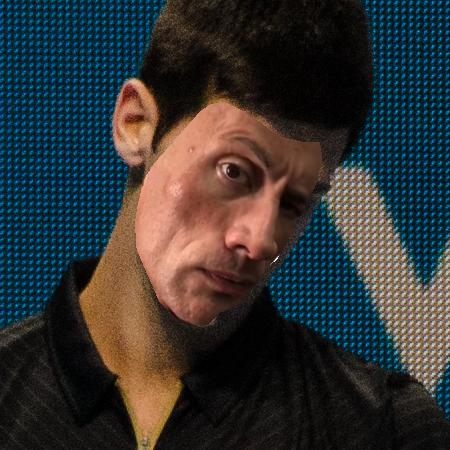
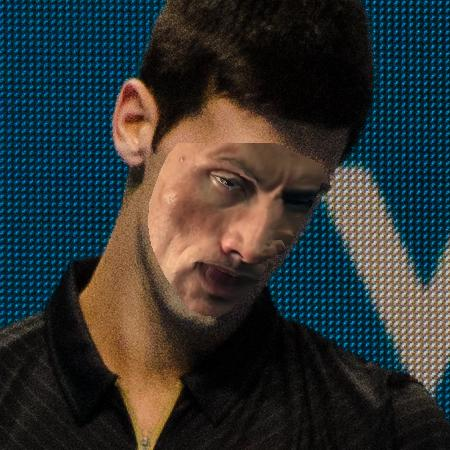
proj2: morph the Rock's face onto Djokovic with face landmarks
Replace the manual placement tool with a piecewise-affine warp between
matching landmarks, a face-outline mask, and color matching.

Changed region(s): [[0.28, 0.2178, 0.7156, 0.7467]]

diff --git a/docs/proj2/index.html b/docs/proj2/index.html
@@ -339,11 +339,12 @@ padded = <span class="tok-fn">np.pad</span>(image, ((pad_top, pad_bottom), (pad_
       </div>
 
       <h3>Djokovic gives the side-eye</h3>
-      <p class="intro">This is a photo of Djokovic checking his racket at the 2014 ATP Finals, blended with the famous meme of the Rock raising one eyebrow. The mask isn't a line. It's a shape I drew by hand around the Rock's face.</p>
-      <p class="intro">Lining them up was the tricky part. Djokovic is looking down at his racket and the Rock is looking up and to the side. My automatic attempts, which fit the faces using the eyes and mouth, either squashed the Rock's face or left it at the wrong angle. In the end I wrote a small browser tool where I could drag the Rock over Djokovic, rotate him (14.5°) and scale him (0.63×) until the eyes, nose, and mouth lined up, and then click out the mask around his face. The tool just saves those numbers and the mask points. The blending itself is the same Laplacian stack code as everything else.</p>
+      <p class="intro">This is a photo of Djokovic checking his racket at the 2014 ATP Finals, blended with the famous meme of the Rock raising one eyebrow. The mask isn't a line. It follows the outline of Djokovic's face.</p>
+      <p class="intro">Lining them up was the hard part. Djokovic is looking down at his racket, and the Rock is looking up and to the side, so no amount of rotating or scaling made the two faces match. There was always a strip of Djokovic's face left over, or the Rock's features landed in the wrong place. So I morphed the Rock's face instead. I found 478 matching points on both faces (eye corners, brows, nose, lips, jawline) with a face-landmark detector, split the face into triangles between those points, and warped each triangle of the Rock's face onto the matching triangle of Djokovic's. The Rock's features end up in the shape and angle of Djokovic's face.</p>
+      <p class="intro">The mask is Djokovic's face outline, shrunk slightly toward the center, with the top of the forehead cut off so the Rock's bald head doesn't paint over Djokovic's hair. The Rock's skin is also paler and lit differently, so before blending I shifted his colors to match the average and spread of Djokovic's skin inside the mask.</p>
       <div class="gallery three">
         <figure><img src="assets/rock_djokovic_image2.jpg" alt="Djokovic checking his racket" /><figcaption><b>Djokovic</b></figcaption></figure>
-        <figure><img src="assets/rock_djokovic_rock.jpg" alt="The Rock raising an eyebrow" /><figcaption><b>The Rock</b><span>Warped onto Djokovic's face before blending</span></figcaption></figure>
+        <figure><img src="assets/rock_djokovic_rock.jpg" alt="The Rock raising an eyebrow" /><figcaption><b>The Rock</b><span>Morphed onto Djokovic's face before blending</span></figcaption></figure>
         <figure><img src="assets/rock_djokovic_mask.jpg" alt="Face-shaped mask" /><figcaption><b>Mask</b><span>White = the Rock</span></figcaption></figure>
       </div>
       <div class="gallery one compare-single">

diff --git a/project2/main.py b/project2/main.py
@@ -627,29 +627,48 @@ save_blend_results(
     summer, winter, season_mask, 'seasons'
 )
 
-# Irregular mask: the Rock's side-eye on Djokovic checking his racket.
-# The placement and mask polygon were set by hand in tools/align_tool.html
-# and exported to data/rock_djokovic.json. Coordinates are in a 1000 x 1000
-# crop of the Djokovic photo.
+# Irregular mask: the Rock's side-eye morphed onto Djokovic checking his racket.
+# The 478 matching face landmarks were found once with MediaPipe FaceMesh and
+# saved to data/rock_djokovic_landmarks.json. Djokovic's points are in a
+# 1000 x 1000 crop of his photo.
+with open(data_dir / 'rock_djokovic_landmarks.json') as f:
+    landmarks = json.load(f)
+left, top = landmarks['crop_origin']
 djokovic = load_small_image(data_dir / 'downloaded' / 'djokovic_racket.jpg', max_size=3264)
-rock = load_small_image(data_dir / 'downloaded' / 'rock_side_eye.jpg', max_size=463)
-with open(data_dir / 'rock_djokovic.json') as f:
-    placement = json.load(f)
-left, top = placement['crop_origin']
 djokovic = djokovic[top:top + 1000, left:left + 1000]
+rock = load_small_image(data_dir / 'downloaded' / 'rock_side_eye.jpg', max_size=463)
+rock_points = np.array(landmarks['rock'])
+djokovic_points = np.array(landmarks['djokovic'])
 
-rock_height, rock_width = rock.shape[:2]
-rock_transform = cv2.getRotationMatrix2D(
-    (rock_width / 2, rock_height / 2), -placement['angle_degrees'],
-    placement['scale']
-)
-rock_transform[0, 2] += placement['rock_center'][0] - rock_width / 2
-rock_transform[1, 2] += placement['rock_center'][1] - rock_height / 2
-rock_aligned = np.clip(cv2.warpAffine(
-    rock, rock_transform, (1000, 1000), borderMode=cv2.BORDER_REPLICATE), 0, 1)
+# Morph: split the face into triangles between landmarks and warp each Rock
+# triangle onto the matching Djokovic triangle.
+morph = sk.transform.PiecewiseAffineTransform()
+morph.estimate(djokovic_points, rock_points)
+rock_aligned = sk.transform.warp(rock, morph, output_shape=(1000, 1000), mode='edge')
 
+# Mask: Djokovic's face outline, shrunk a little toward the center, with the
+# top of the forehead cut off so the Rock's bald head doesn't cover the hair.
+center = djokovic_points.mean(axis=0)
+outline = cv2.convexHull(np.int32(center + 0.88 * (djokovic_points - center)))
 rock_mask = np.zeros((1000, 1000), np.float32)
-cv2.fillPoly(rock_mask, [np.int32(np.round(placement['mask_polygon']))], 1)
+cv2.fillConvexPoly(rock_mask, outline, 1)
+rows = np.where(rock_mask.any(axis=1))[0]
+rock_mask[:int(rows.min() + 0.08 * (rows.max() - rows.min()))] = 0
+# Skip anything that came from the white border of the meme image.
+rock_face = cv2.erode((rock.min(axis=2) < 0.8).astype(np.float32),
+                      np.ones((9, 9), np.uint8))
+rock_mask *= sk.transform.warp(rock_face, morph, output_shape=(1000, 1000)) > 0.5
+
+# The Rock is paler and lit differently. Match the mean and spread of each
+# color channel inside the mask to Djokovic's skin before blending.
+inside = rock_mask > 0.5
+for channel in range(3):
+    source = rock_aligned[:, :, channel]
+    target = djokovic[:, :, channel]
+    rock_aligned[:, :, channel] = (
+        (source - source[inside].mean()) / source[inside].std()
+        * target[inside].std() + target[inside].mean())
+rock_aligned = np.clip(rock_aligned, 0, 1)
 
 rock_djokovic = save_blend_results(rock_aligned, djokovic, rock_mask, 'rock_djokovic')
 hard_cut = rock_mask[:, :, np.newaxis] * rock_aligned
